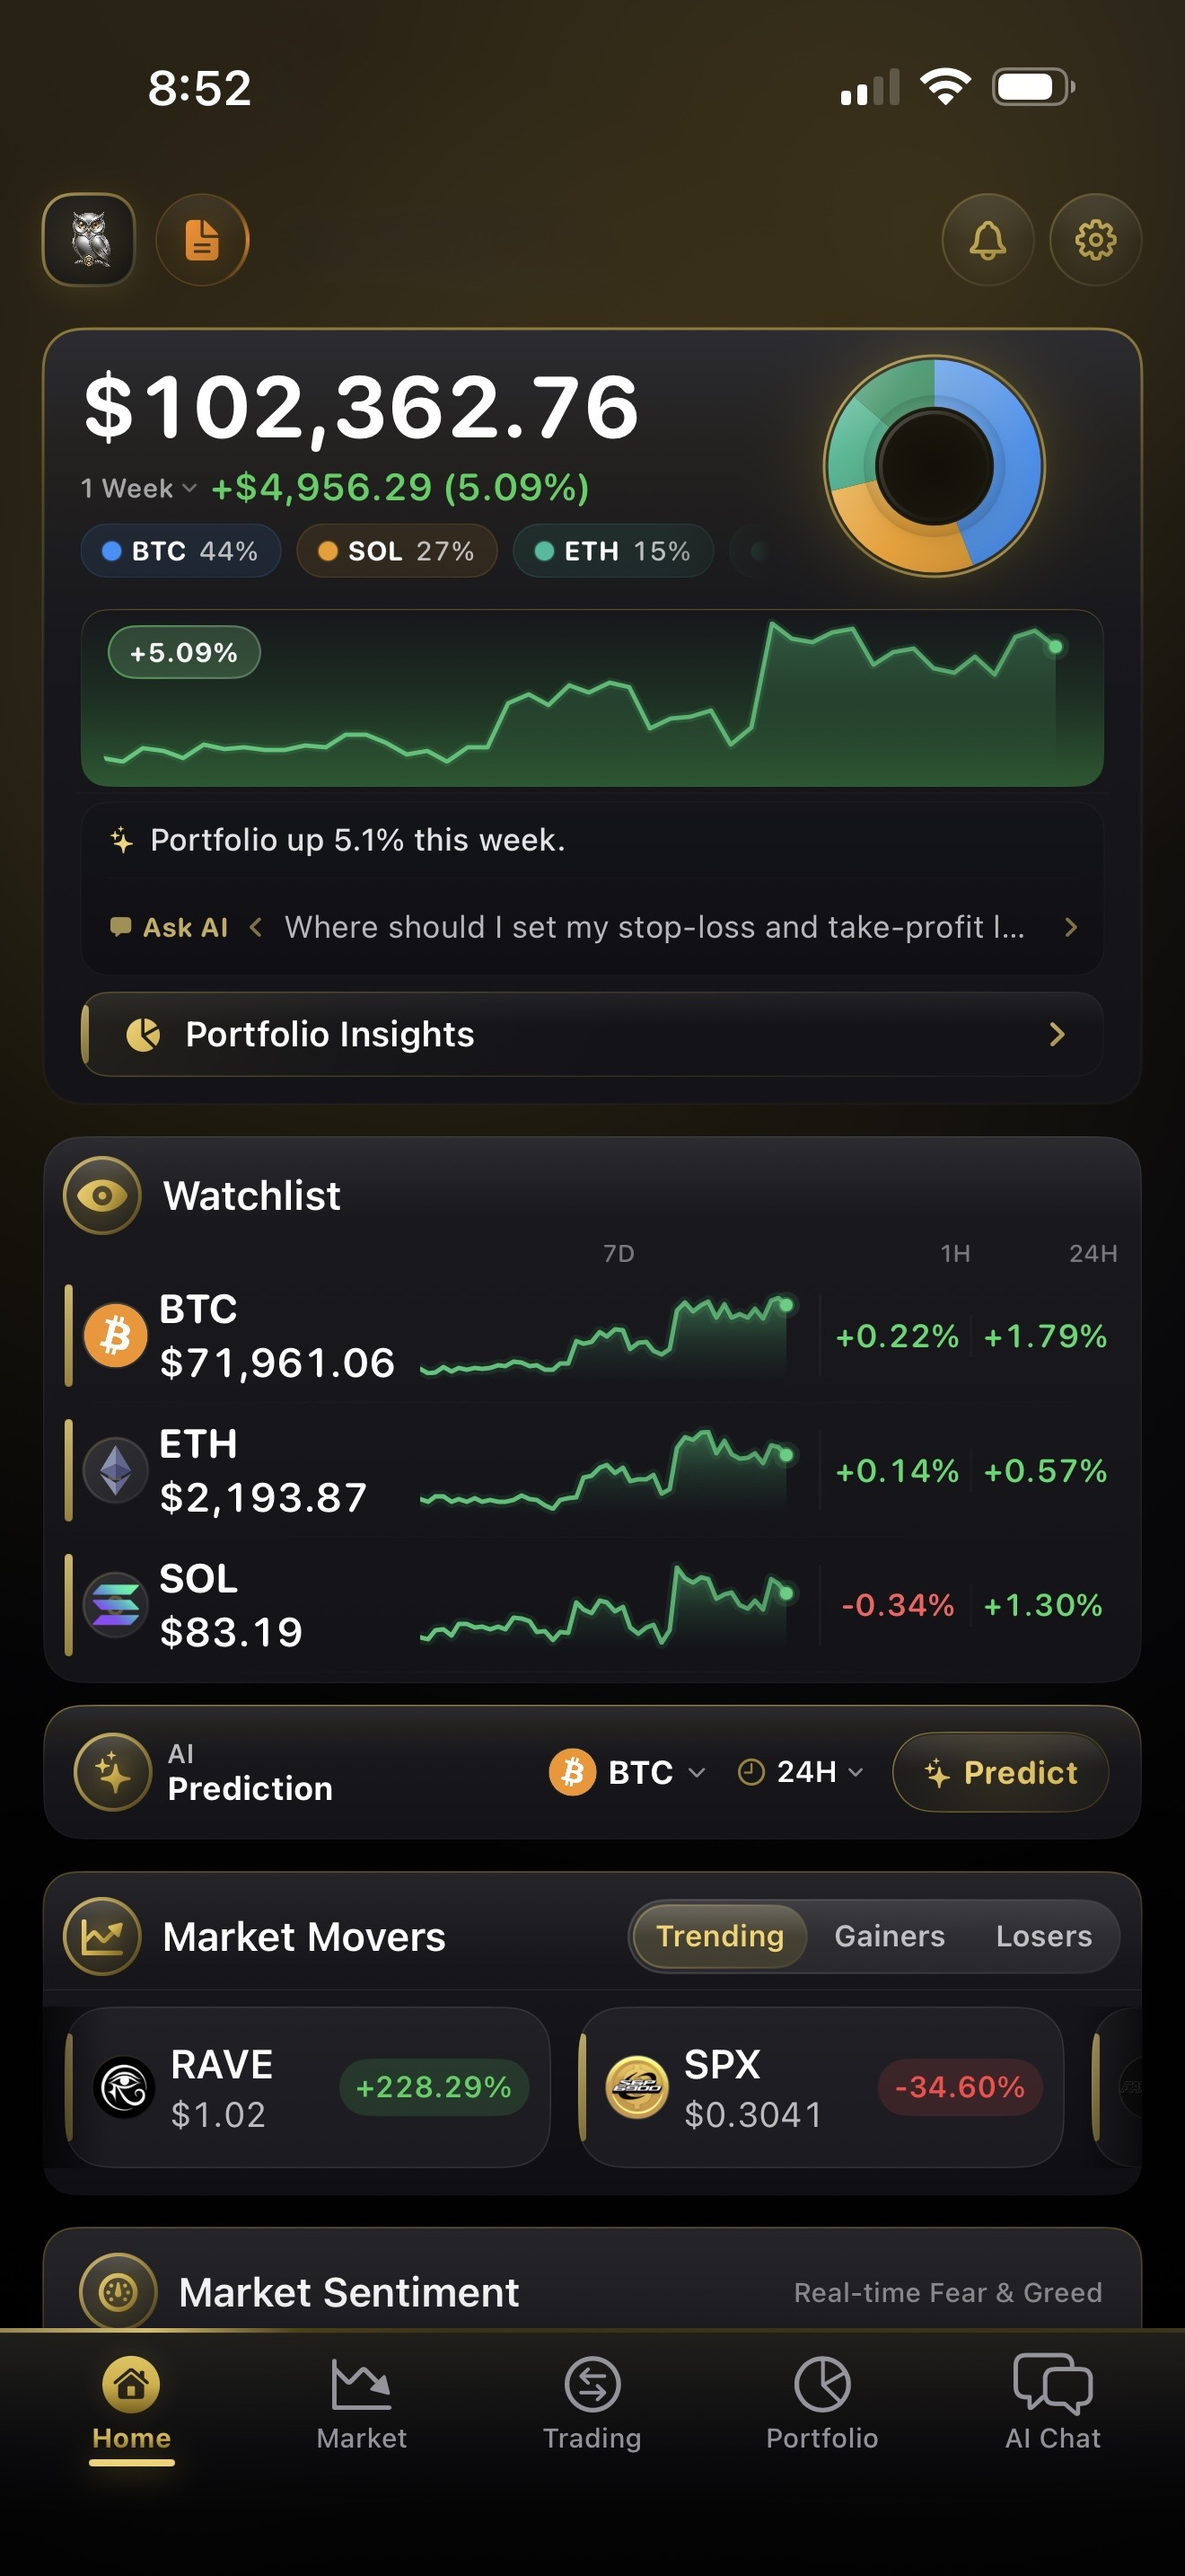
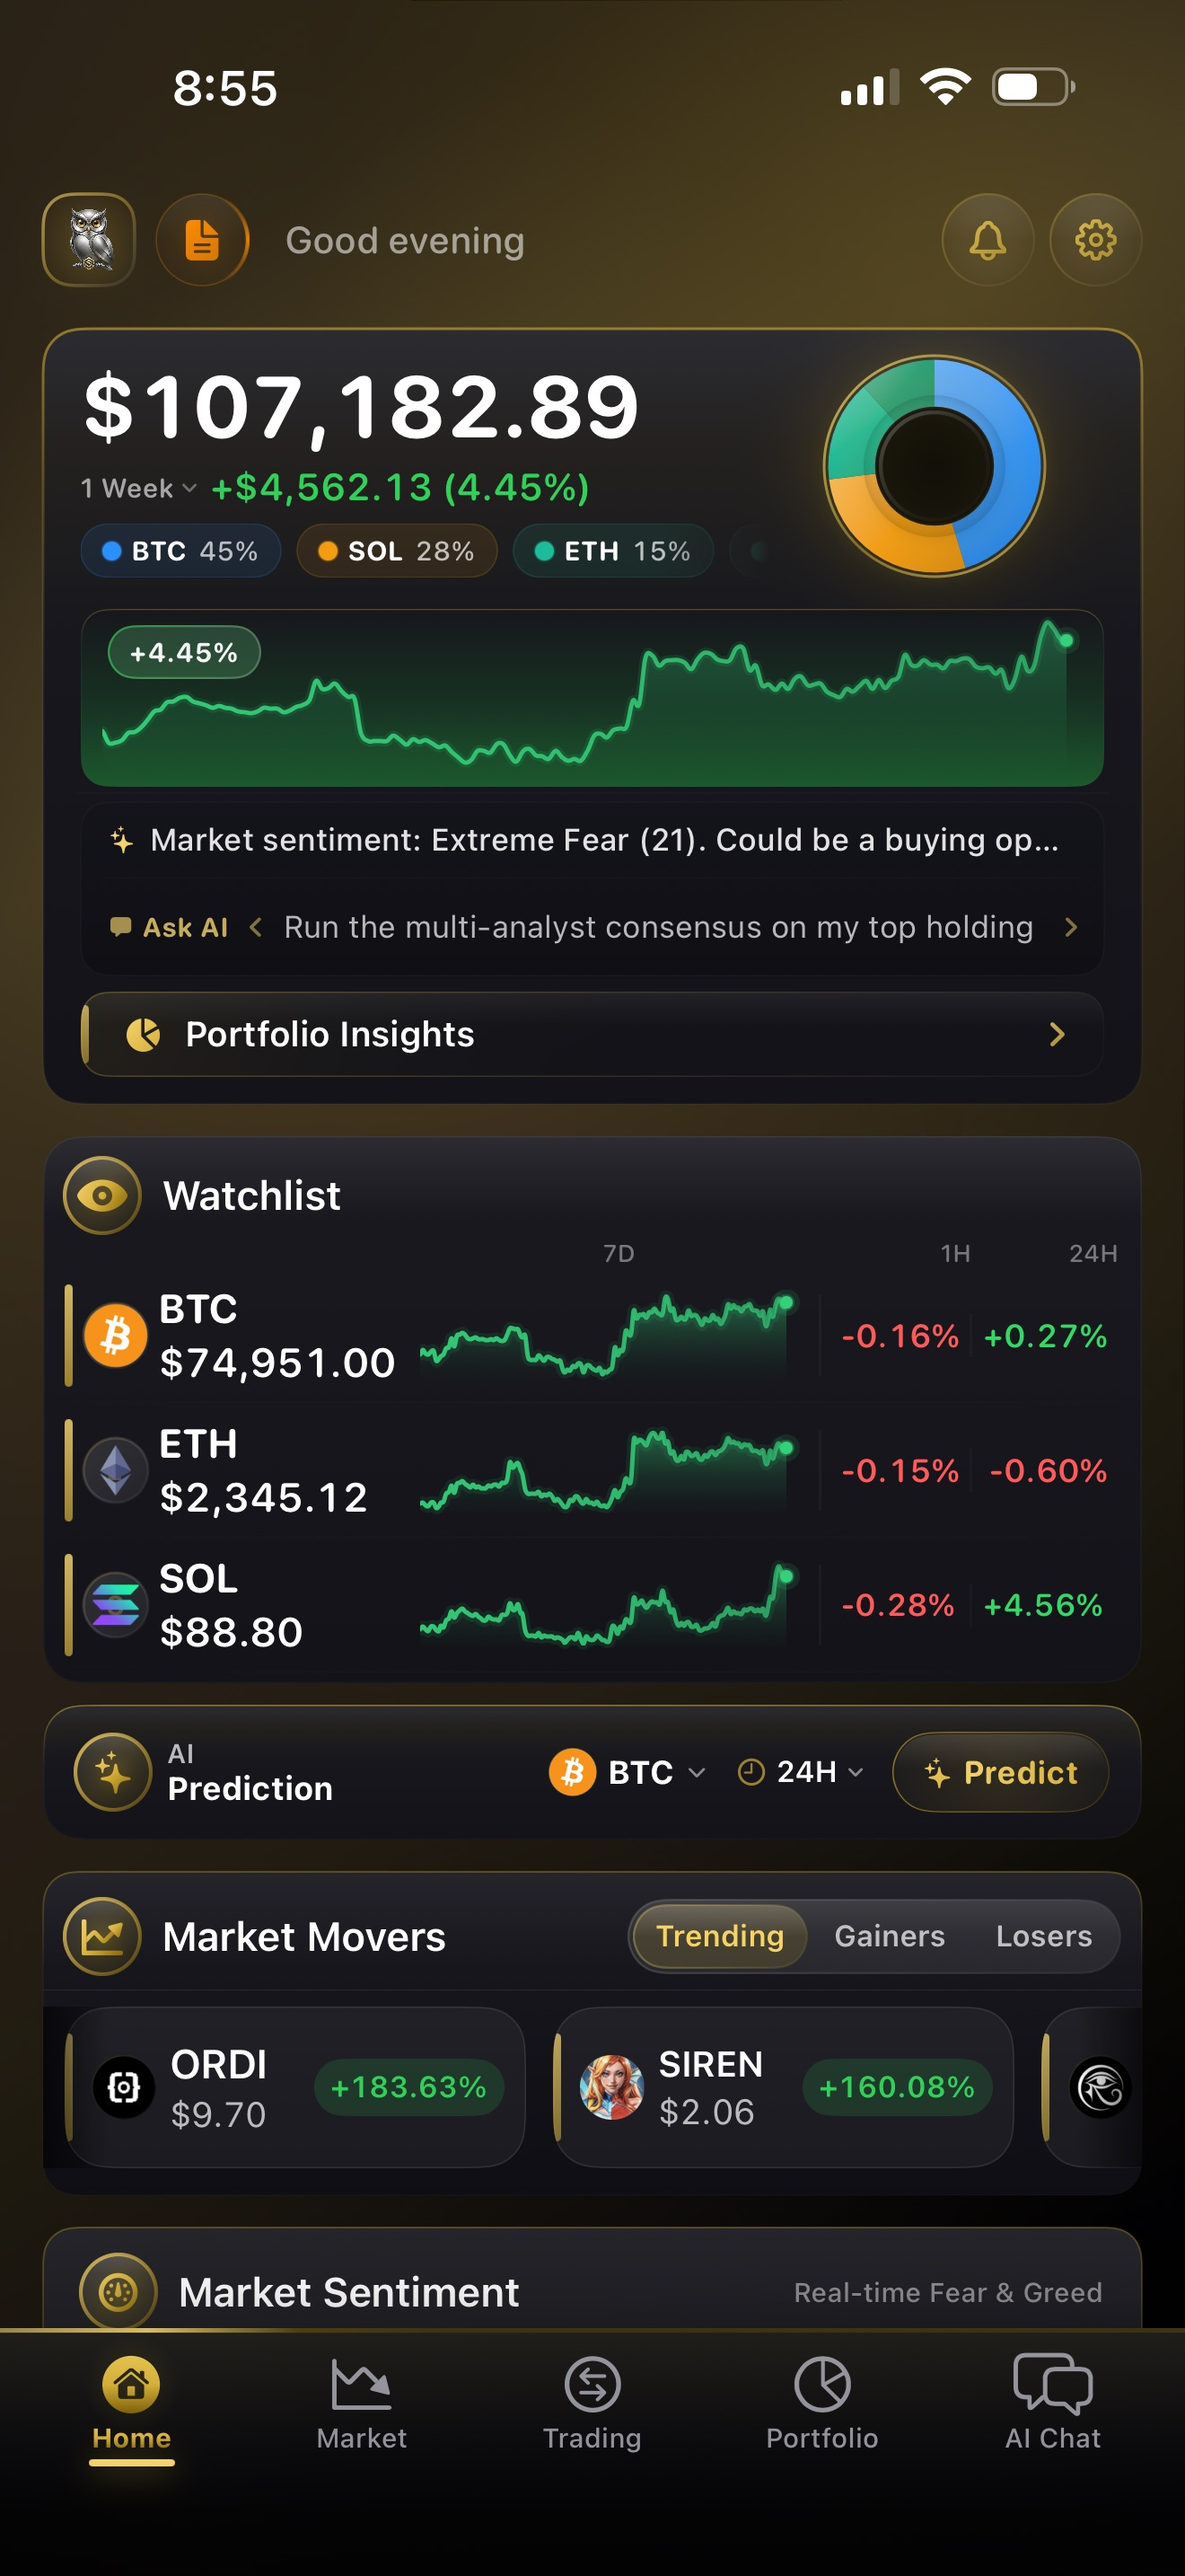
Update phone screenshots and add Showcase section
- Replace app-dark.png and app-light.png with newer dashboard screenshots
- Add app-trading.png — new live BTC trading view with order book and
  paper-trading mode
- New "See It In Action" showcase section between Stats and AI Section,
  featuring three phones: Light Mode, Live Trading (featured/raised
  with gold tag), and Dark Mode — each with a tag and short caption
- Showcase styles match existing hero-phone-frame aesthetic

diff --git a/index.html b/index.html
@@ -373,6 +373,54 @@
       animation: crossfade 10s ease-in-out infinite;
     }
 
+    /* ── Showcase ── */
+    #showcase { padding: 96px 0; position: relative; }
+    .showcase-header { text-align: center; }
+    .showcase-header h2 {
+      font-size: 2.5rem; font-weight: 800;
+      letter-spacing: -0.03em; line-height: 1.15;
+      margin-top: 10px;
+    }
+    .showcase-header .section-desc {
+      margin-left: auto; margin-right: auto; text-align: center;
+    }
+    .phones-grid {
+      display: flex; justify-content: center; align-items: flex-end;
+      gap: 36px; flex-wrap: wrap; margin-top: 64px;
+    }
+    .phone-card { display: flex; flex-direction: column; align-items: center; }
+    .phone-card .hero-phone-frame { max-width: 240px; }
+    .phone-card.featured { transform: translateY(-24px); }
+    .phone-card.featured .hero-phone-frame {
+      max-width: 264px;
+      border-color: rgba(208,153,69,0.45);
+      box-shadow: 0 24px 60px rgba(0,0,0,0.5), 0 0 0 1px rgba(208,153,69,0.18), 0 0 100px rgba(208,153,69,0.14);
+    }
+    .phone-card .hero-phone-frame img { max-height: 480px; }
+    .phone-caption { margin-top: 24px; text-align: center; max-width: 240px; }
+    .phone-tag {
+      display: inline-flex; align-items: center; gap: 6px;
+      padding: 4px 12px; margin-bottom: 12px;
+      border: 1px solid rgba(208,153,69,0.25);
+      background: rgba(208,153,69,0.08);
+      color: #d4b068;
+      font-size: 0.72rem; font-weight: 700;
+      letter-spacing: 0.04em; text-transform: uppercase;
+      border-radius: 999px;
+    }
+    .phone-card.featured .phone-tag {
+      background: linear-gradient(135deg, #e8b84b, #c48a2a);
+      color: #000; border-color: transparent;
+      box-shadow: 0 4px 14px rgba(208,153,69,0.35);
+    }
+    .phone-tag svg { width: 11px; height: 11px; stroke: currentColor; fill: none; stroke-width: 2.5; }
+    .phone-caption p { color: var(--muted-fg); font-size: 0.88rem; line-height: 1.55; }
+    @media (max-width: 720px) {
+      .phone-card.featured { transform: none; }
+      .phones-grid { gap: 28px; }
+      .showcase-header h2 { font-size: 2rem; }
+    }
+
     /* ── Stats ── */
     .stats {
       padding: 0;
@@ -725,6 +773,66 @@
     </div>
   </div>
 </div>
+
+<div class="section-divider"></div>
+
+<!-- Showcase: 3 phones (Light / Live Trading / Dark) -->
+<section id="showcase">
+  <div class="container">
+    <div class="showcase-header anim">
+      <span class="section-label">See It In Action</span>
+      <h2>Three Modes.<br><span class="gradient-text-gold">One Powerful App.</span></h2>
+      <p class="section-desc">From a quick portfolio glance to live BTC charts and paper trading &mdash; CryptoSage adapts to how you trade.</p>
+    </div>
+
+    <div class="phones-grid anim">
+      <div class="phone-card">
+        <div class="hero-phone-frame">
+          <div class="phone-screen">
+            <img src="app-light.png" alt="CryptoSage AI Light Mode" loading="lazy">
+          </div>
+        </div>
+        <div class="phone-caption">
+          <div class="phone-tag">
+            <svg viewBox="0 0 24 24"><circle cx="12" cy="12" r="4"/><path d="M12 2v2M12 20v2M4.93 4.93l1.41 1.41M17.66 17.66l1.41 1.41M2 12h2M20 12h2M4.93 19.07l1.41-1.41M17.66 6.34l1.41-1.41"/></svg>
+            Light Mode
+          </div>
+          <p>Clean, glanceable dashboard for everyday tracking.</p>
+        </div>
+      </div>
+
+      <div class="phone-card featured">
+        <div class="hero-phone-frame">
+          <div class="phone-screen">
+            <img src="app-trading.png" alt="CryptoSage AI Live Trading - BTC Charts &amp; Paper Trading" loading="lazy">
+          </div>
+        </div>
+        <div class="phone-caption">
+          <div class="phone-tag">
+            <svg viewBox="0 0 24 24"><path d="M3 3v18h18"/><path d="M7 14l4-4 4 4 5-7"/></svg>
+            Live Trading
+          </div>
+          <p>Real-time order books, paper trading, and live BTC charts.</p>
+        </div>
+      </div>
+
+      <div class="phone-card">
+        <div class="hero-phone-frame">
+          <div class="phone-screen">
+            <img src="app-dark.png" alt="CryptoSage AI Dark Mode" loading="lazy">
+          </div>
+        </div>
+        <div class="phone-caption">
+          <div class="phone-tag">
+            <svg viewBox="0 0 24 24"><path d="M21 12.79A9 9 0 1 1 11.21 3 7 7 0 0 0 21 12.79z"/></svg>
+            Dark Mode
+          </div>
+          <p>AI insights, watchlists, and predictions &mdash; built for traders.</p>
+        </div>
+      </div>
+    </div>
+  </div>
+</section>
 
 <div class="section-divider"></div>
 
